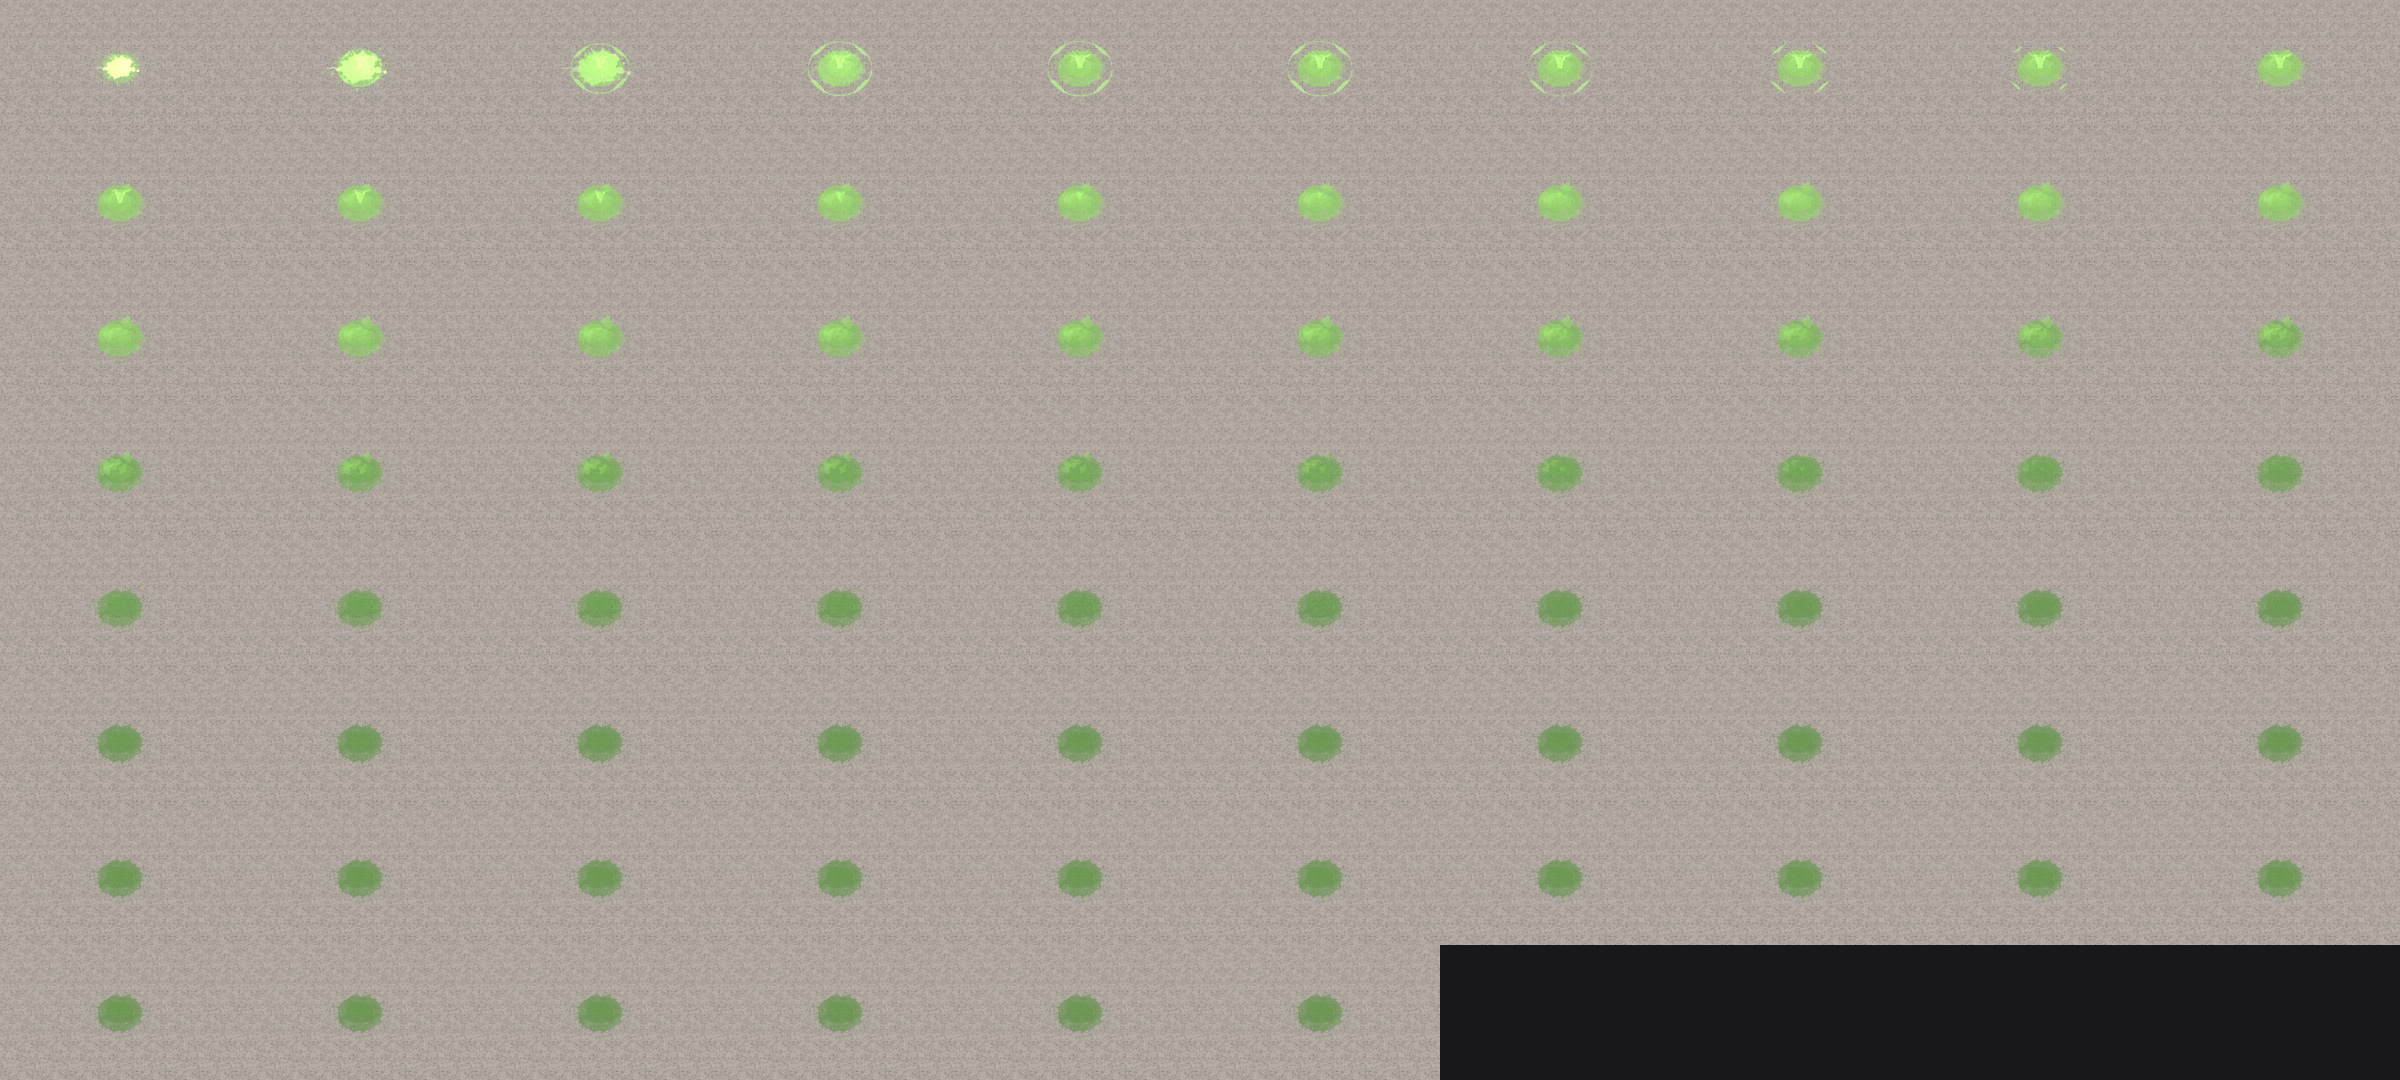
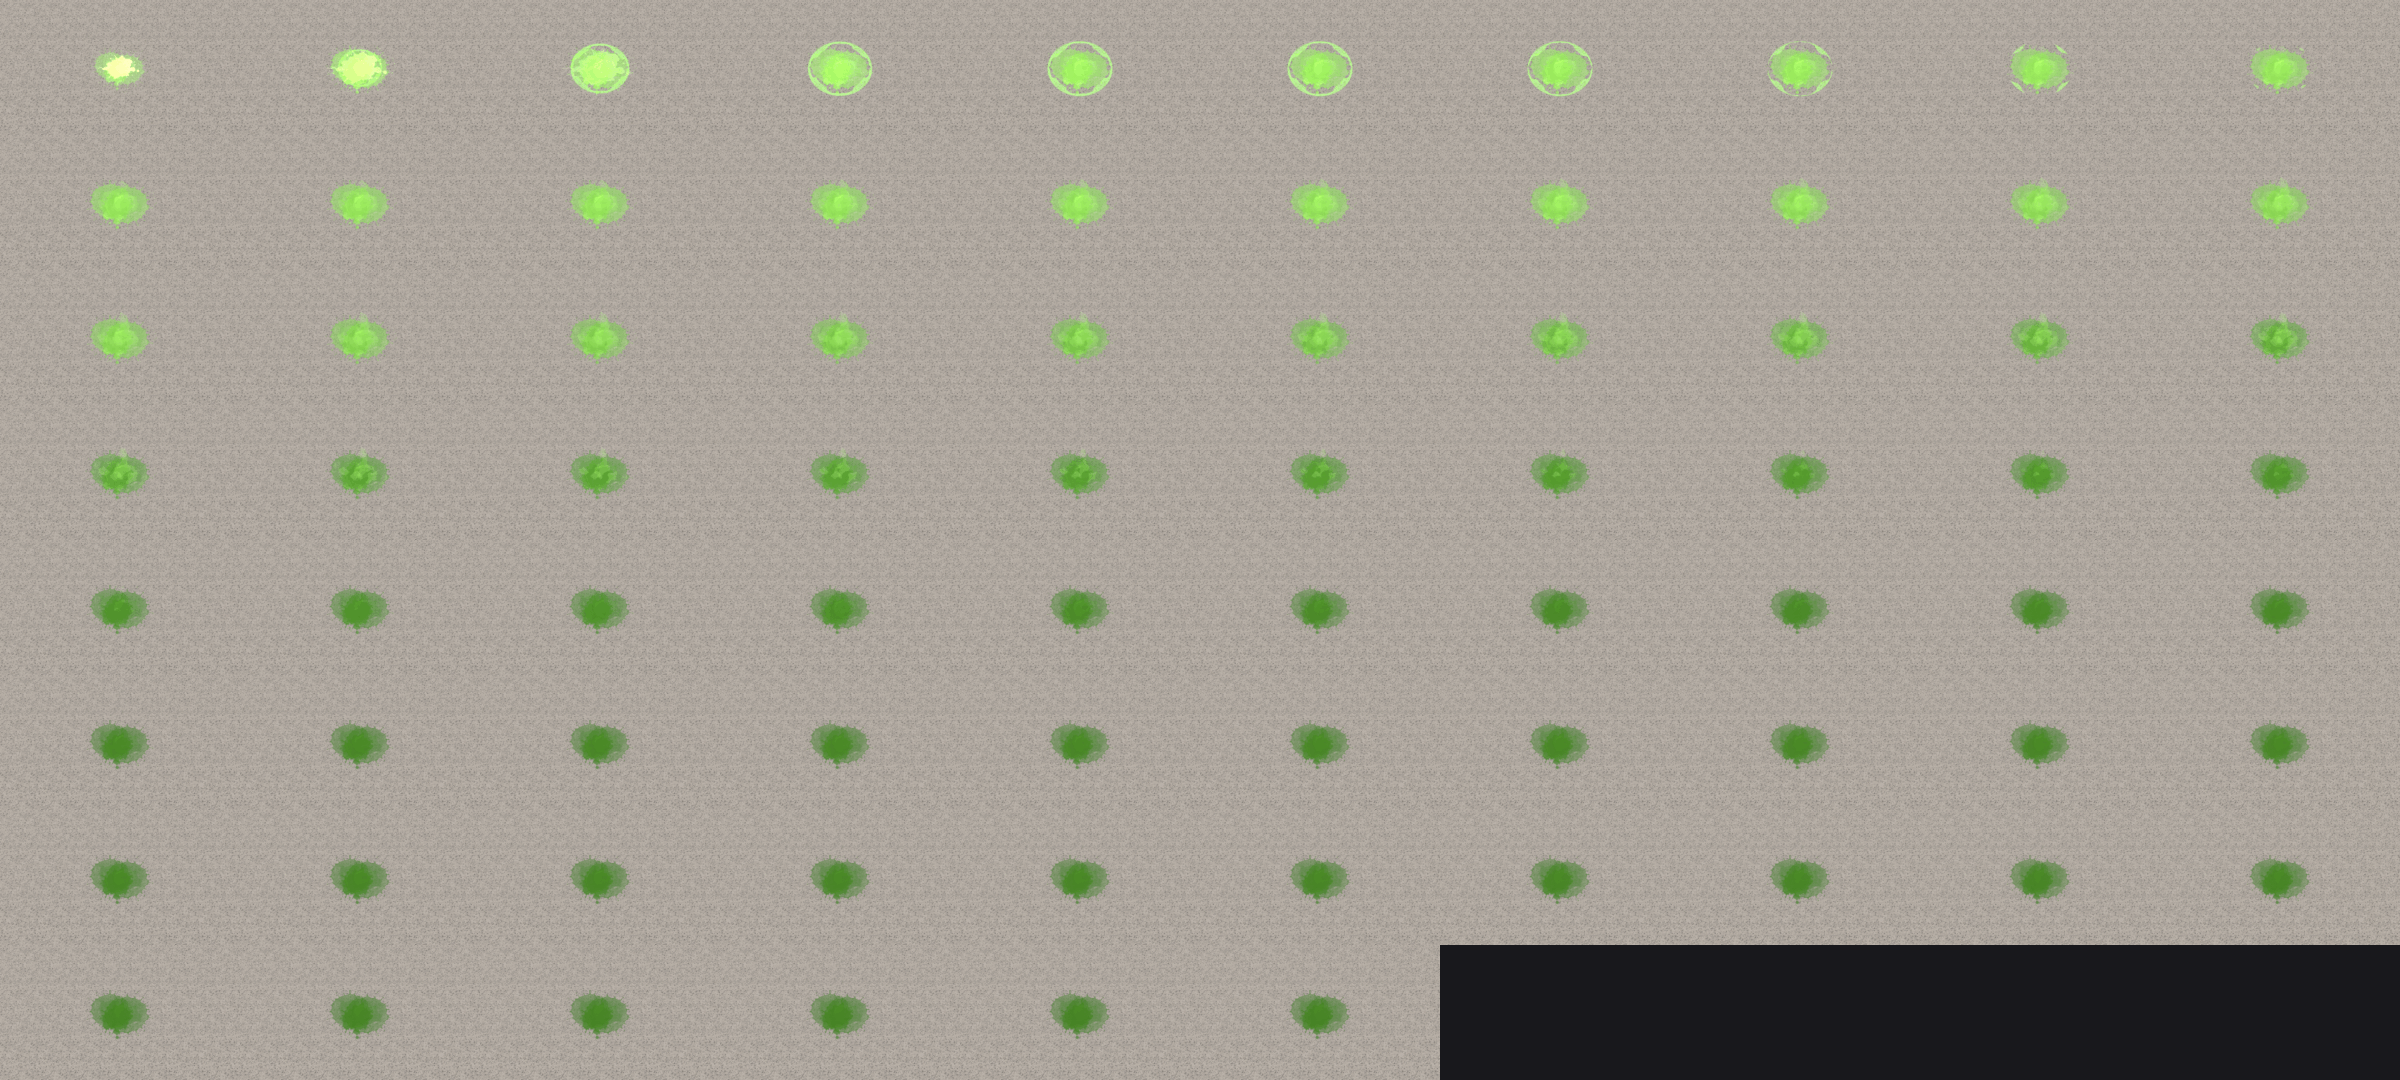
feat(client): effect ramps capped at 1.0 (D-11 rejected); slice effects revised after review round 0 (effects WP6c)
HDR and bloom were rejected (evidence: docs/evidence/effects/review/hdr_bloom_decision.md),
so a ramp value above 1.0 only clips. The effect catalog loader now refuses any ramp channel
outside 0 to 1 with `EffectCatalogError::RampOutOfRange` (file, ramp, key, value), tested in
effect_catalog_tests.rs.

effects.ron, review round 0 -> round 1 (docs/evidence/effects/review/slice_review.md):
- every ramp capped; `blast_fire` and `blast_flash` re-authored below the cap so the fireball
  keeps its orange-to-white core instead of a clipped pale yellow;
- shell_impact: brighter, denser shock-ring ramp;
- acid_burst: the crown card removed (a flat glyph from the battle camera); the front ring
  thicker and less broken; the stain three overlapping splats filling the reach (one lopsided
  splat left a third of the damaged disc bare), darker body, wet highlights;
- spine_line: spines at full height 75 ms after their point's event (was 210 ms), darker
  bone mids for contrast on bright ground;
- budget sized to the stress run's measured peak: effects 1 536, sprites 4 096, decals 2 048
  (no effect refused, no Critical overflow at 200 splashes per second).

effect_slice_gpu_tests.rs: the decal margin of the "nothing lingers" check adds a layer's disc
placement radius. Goldens re-baselined on radv and lavapipe with this cause; the round-1
contact sheets and sequences (lavapipe) are in this commit. Both drivers pass footprint,
[…]

diff --git a/crates/client/src/effects/catalog/resolve.rs b/crates/client/src/effects/catalog/resolve.rs
@@ -109,12 +109,37 @@ struct Resolver<'a> {
 }
 
 impl Resolver<'_> {
-    /// Bakes every ramp.
+    /// Bakes every ramp after checking that every channel lies in 0 to 1 (D-11).
     fn ramps(&self, file: &EffectsFile) -> Result<Vec<Ramp>, EffectCatalogError> {
         file.ramps
             .iter()
-            .map(|(name, keys)| Ramp::bake(keys).map_err(|bad| self.unordered(name, bad.0)))
+            .map(|(name, keys)| {
+                self.ramp_in_range(name, keys)?;
+                Ramp::bake(keys).map_err(|bad| self.unordered(name, bad.0))
+            })
             .collect()
+    }
+
+    /// Fails on the first channel of `keys` outside 0 to 1.
+    fn ramp_in_range(
+        &self,
+        name: &str,
+        keys: &[super::schema::RampKey],
+    ) -> Result<(), EffectCatalogError> {
+        for (index, (_, (red, green, blue, opacity))) in keys.iter().enumerate() {
+            if let Some(value) = [*red, *green, *blue, *opacity]
+                .into_iter()
+                .find(|value| !(0.0..=1.0).contains(value))
+            {
+                return Err(EffectCatalogError::RampOutOfRange {
+                    path: self.path.to_path_buf(),
+                    ramp: name.to_owned(),
+                    index,
+                    value,
+                });
+            }
+        }
+        Ok(())
     }
 
     /// Builds every curve.

diff --git a/crates/client/src/effects/catalog/error.rs b/crates/client/src/effects/catalog/error.rs
@@ -90,6 +90,23 @@ pub enum EffectCatalogError {
         /// Version this client reads.
         expected: u32,
     },
+    /// A ramp key has a colour or opacity channel outside 0 to 1. Effects are drawn without
+    /// tone mapping on a camera with no HDR target, so a value above 1.0 only clips (plan
+    /// D-11, decided in `WP6c`: no HDR and bloom; cores rely on additive layering and light).
+    #[error(
+        "'{path}': ramp '{ramp}' key {index} has a channel of {value}, outside 0 to 1 \
+         (effects are not tone-mapped and the battle camera has no HDR, plan D-11)"
+    )]
+    RampOutOfRange {
+        /// The file.
+        path: PathBuf,
+        /// Name of the ramp.
+        ramp: String,
+        /// Index of the key (0-based).
+        index: usize,
+        /// The offending value.
+        value: f32,
+    },
     /// A name does not resolve in its table.
     #[error("'{path}': {site} names unknown {kind} '{name}'")]
     UnknownName {

diff --git a/crates/client/tests/effect_slice_gpu_tests.rs b/crates/client/tests/effect_slice_gpu_tests.rs
@@ -620,7 +620,15 @@ fn decal_margin(effect: &Effect, subject: &LabSubject, catalog: &EffectCatalog) 
             let grow = (0..=20)
                 .map(|step| catalog.sample(layer.size_curve, step as f32 / 20.0, 1.0))
                 .fold(0.0, f32::max);
-            resolve_value(&layer.size, &subject.bound) * (1.0 + layer.size_jitter) * grow
+            let offset = layer
+                .placements
+                .iter()
+                .map(|placement| match placement {
+                    PlacementDef::Disc { radius, .. } => resolve_value(radius, &subject.bound),
+                    _ => 0.0,
+                })
+                .fold(0.0, f32::max);
+            offset + resolve_value(&layer.size, &subject.bound) * (1.0 + layer.size_jitter) * grow
         })
         .fold(0.0, f32::max)
 }

diff --git a/crates/client/tests/effect_catalog_tests.rs b/crates/client/tests/effect_catalog_tests.rs
@@ -338,7 +338,18 @@ fn unordered_curve_and_ramp_keys_are_refused() {
     assert!(
         matches!(&error, EffectCatalogError::UnorderedKeys { .. }),
         "{error}"
+    ); // D-11 (WP6c): no HDR, so a ramp channel above 1.0 is refused, naming ramp and key.
+    let text = vocabulary(&manifest, "", "", "").replace(
+        r#""blue": [(0.0, (0.0, 0.0, 1.0, 1.0)), (1.0"#,
+        r#""blue": [(0.0, (0.0, 0.0, 1.5, 1.0)), (1.0"#,
     );
+    let error = load(dir.path(), &text).expect_err("ramp above 1.0");
+    match &error {
+        EffectCatalogError::RampOutOfRange {
+            ramp, index, value, ..
+        } => assert_eq!((ramp.as_str(), *index, *value), ("blue", 0, 1.5)),
+        other => panic!("expected RampOutOfRange, got {other}"),
+    }
 }
 
 #[test]
